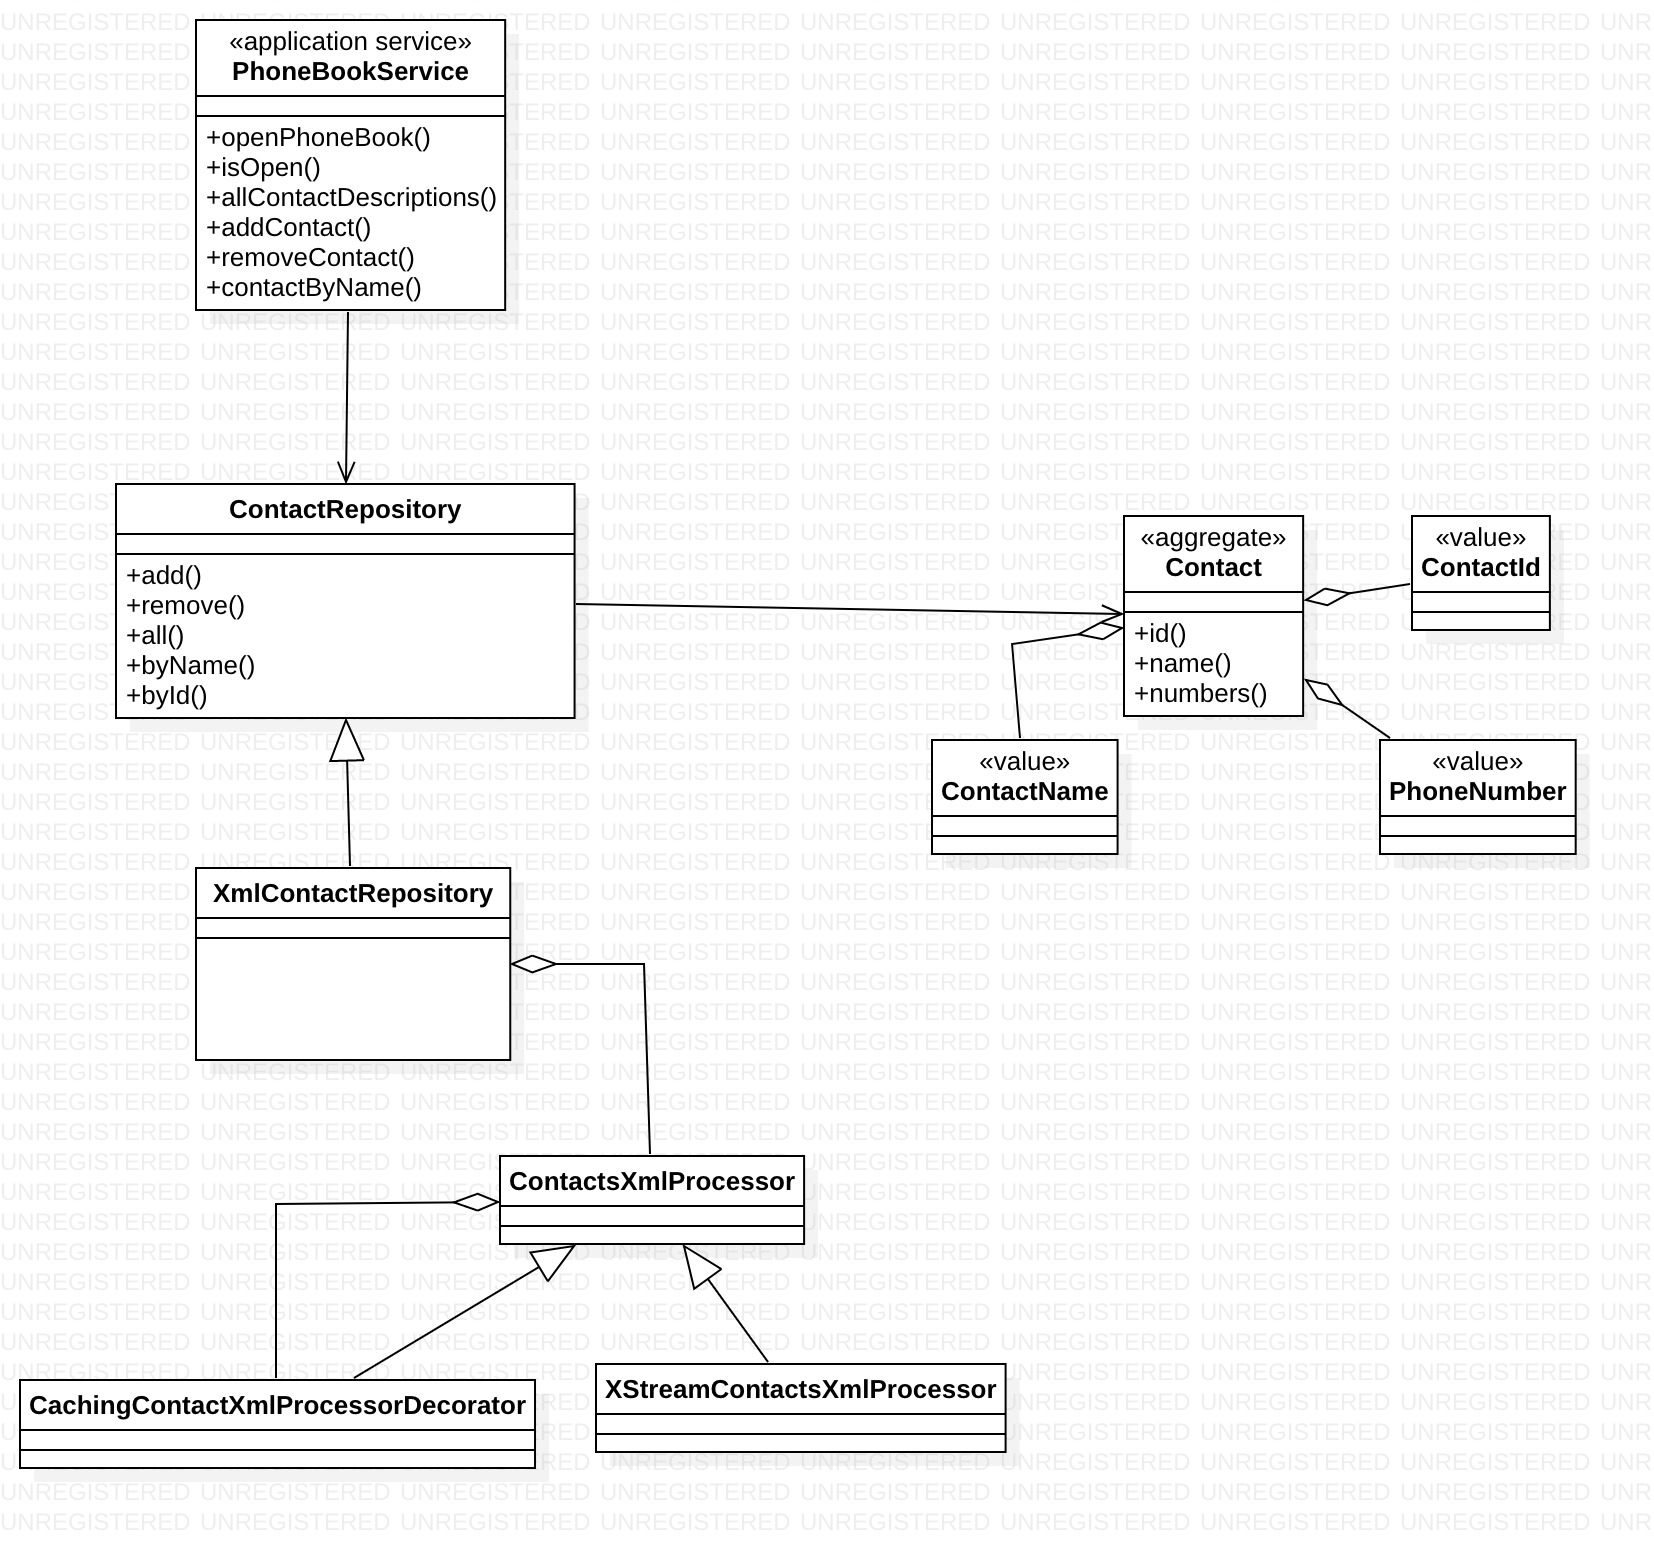
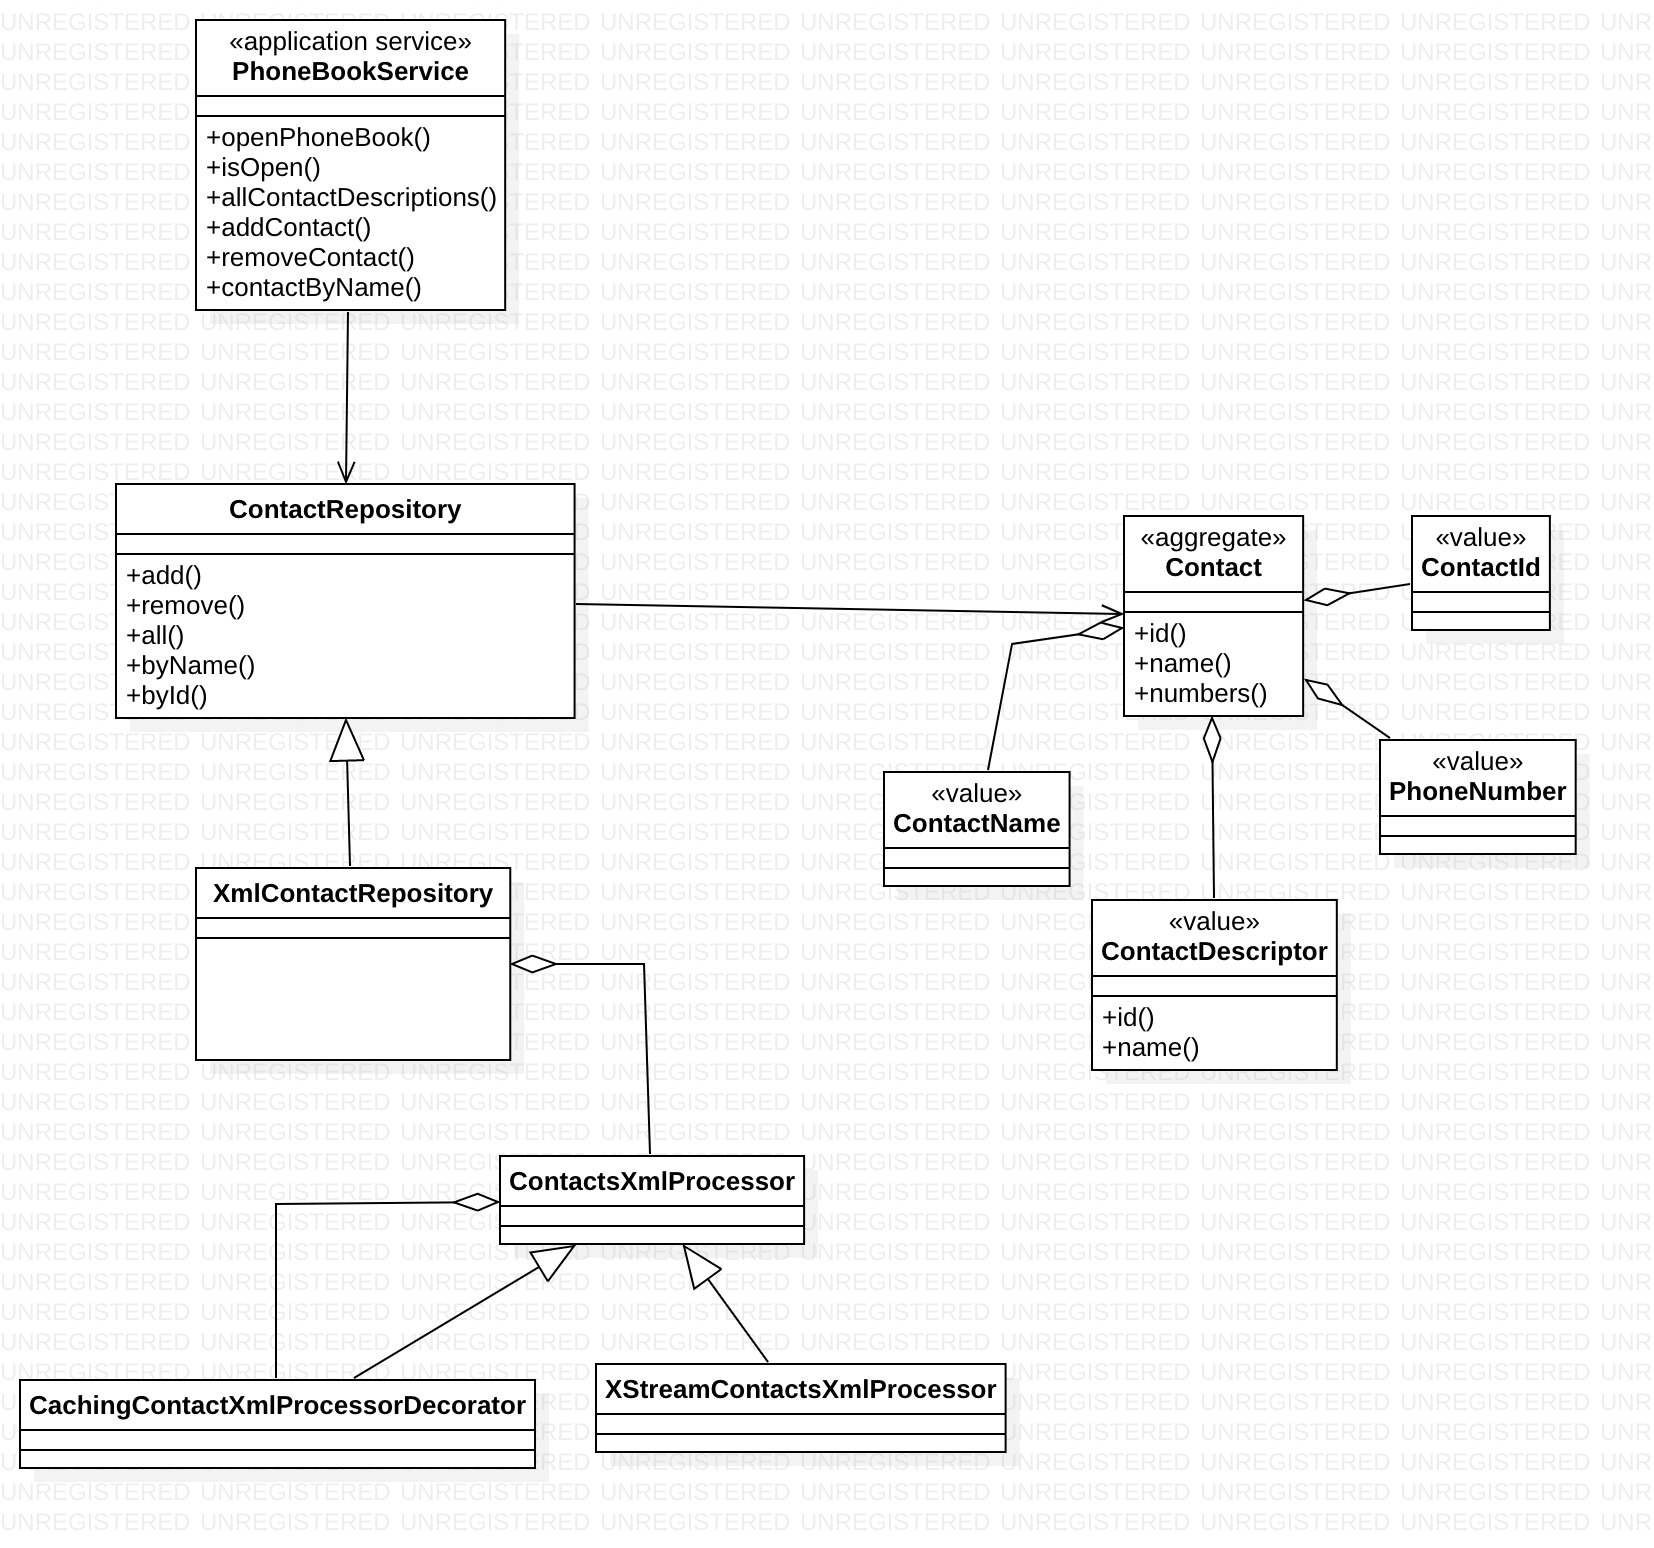
Documentation

diff --git a/README.md b/README.md
@@ -37,3 +37,35 @@ on my desktop and quickly find what I am currently looking for.
 
 ![Architecture](images/architecture.jpg)
 
+**Contact** is an aggregate entity. It represents the smallest persistence unit, having all 
+information in it to describe a contact - name and phone numbers. It is an entity that is
+identified by its id (which is not persistence id).
+
+
+**ContactId** it is a unique identifier of the Contact entity. It is a value object.
+
+**ContactName** it is a value class that serves as a name of a contact, like John Doe etc. 
+It consists of two parts - first name and last name. From DDD pespecive, this class is a value
+class that describes the owning entity - Contact.
+
+**PhoneNumber** similarly like ContactName, this class is a value class that is owned by
+Contact, storing one phone number that must conform to a pattern +XXX XXX XXXXXX where X is
+a digit. An owning entity Contact contains one or more phone numbers.
+
+**ContactDescriptor** describes a contact, it is a value class that can bu used as a sort
+description of a contact without numbers.
+
+**ContactsRepository** is a DDD concept that works with Contact aggregate. It represents a collection
+of contacts no matter whether they are held in memory, or stored in some persistence storage.
+It is just an interface for obtaining and storing contacts.
+
+**PhoneBookService** is an application service that contains methods representing use cases
+perfomed by the user. From DDD perspecive, this application service coordinates DDD objects
+like repository, aggreagates etc. This class is an entry point to the application backedn from UI.
+All the UI infrastructure accesses backend only via this class.
+
+**XmlContactRepository** is an implementation of ContactsRepository that does IO operations
+with XML file as a storage.
+
+
+ 
